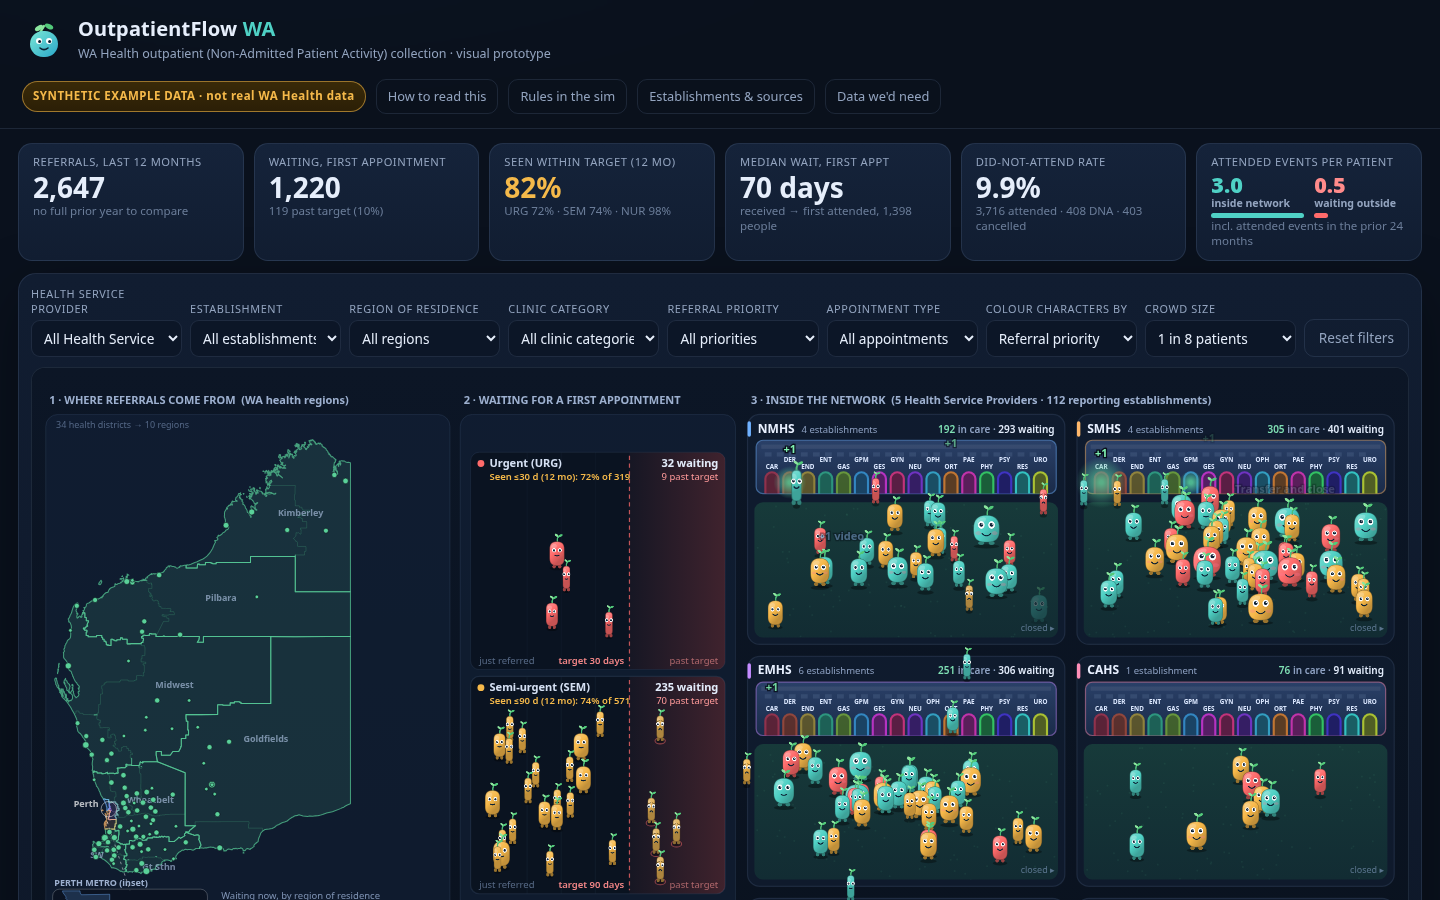
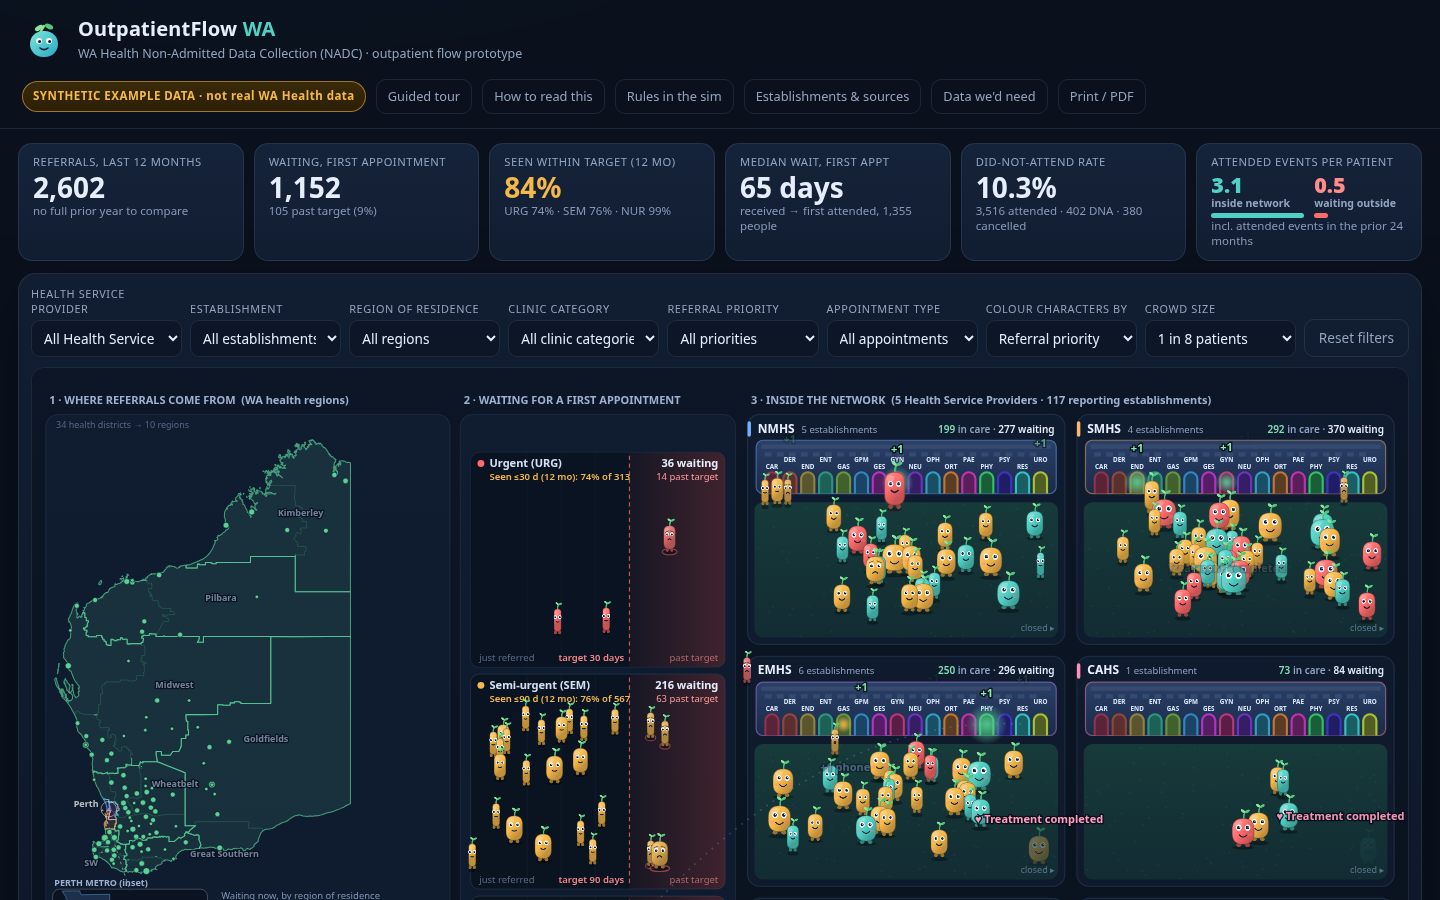
Lane caption fits narrow lanes; refresh README screenshots; research log

diff --git a/js/scene.js b/js/scene.js
@@ -446,7 +446,13 @@
         // rule-aware indicator: of first appointments in the last 12 months, share within target
         const sn = stats.seen12[ln.prio], wn = stats.within12[ln.prio];
         ctx.textAlign = 'left'; ctx.font = '600 ' + fz(9.5) + 'px ' + FONT; ctx.fillStyle = sn ? (wn / sn >= 0.9 ? '#7fe0b4' : wn / sn >= 0.7 ? '#f5b94a' : '#ff8b8b') : '#6f819e';
-        ctx.fillText(sn ? 'Seen ≤' + dm.priorities[ln.prio].targetDays + ' d (12 mo): ' + Math.round(wn / sn * 100) + '% of ' + fmtN(sn) : 'No first appts in last 12 mo', ln.x + 22, ln.y + 32);
+        const td = dm.priorities[ln.prio].targetDays, pc = sn ? Math.round(wn / sn * 100) : 0;
+        const rw = over ? (ctx.font = fz(9.5) + 'px ' + FONT, ctx.measureText(fmtN(over) + ' past target').width) : 0;
+        ctx.font = '600 ' + fz(9.5) + 'px ' + FONT;
+        const room = ln.w - 22 - 8 - rw - 8;
+        const opts = sn ? ['Seen ≤' + td + ' d (12 mo): ' + pc + '% of ' + fmtN(sn), 'Seen ≤' + td + ' d: ' + pc + '% of ' + fmtN(sn), '≤' + td + ' d: ' + pc + '%'] : ['No first appts in last 12 mo', 'No first appts (12 mo)', 'No first appts'];
+        let txt = opts.find((o) => ctx.measureText(o).width <= room) || opts[opts.length - 1];
+        ctx.fillText(txt, ln.x + 22, ln.y + 32);
       });
       L.cells.forEach((c) => {
         if (c.spot || !c.doors) return;

diff --git a/docs/RESEARCH-LOG.md b/docs/RESEARCH-LOG.md
@@ -66,6 +66,13 @@ Round of varied searches (Referral Priority code list; Business Rules section 9 
 * **Search-engine summaries (unverified paraphrase, not used as fact).** They said: the Referral Priority code set is AWT, NUR, SEM, URG, UNK (this matches the 2021 Specification we hold); attendance codes are ATT, DNA, DNW, NCE, NSP (matches the Dental Specification extract); "Did Not Attend" is an attendance status and not a valid appointment outcome (matches the Validation Manual extract we hold); Esperance 218, Geraldton 220, Derby 215, Fremantle 102, Kalgoorlie 226, Royal Perth 101 and Fiona Stanley 106 report to the NADC (the numbers equal our SLIP codes, but no official row was shown, so these sites stay "SLIP-flagged, not confirmed"); the Business Rules 2024 were superseded on 1 July 2025 and a Data Dictionary was superseded on 1 July 2026 (not confirmed anywhere; added to Open Question 1 as a reason to ask which edition is current).
 * Where a summary agrees with text we already hold verbatim, that adds nothing; where it does not, we did not use it.
 
+
+## 27 Oct 2026, about 22:35 AWST: second probe round and fixes
+
+* Searched again for Business Rules 2024 wording, Data Dictionary code lists, Information Compendium and Establishments rows beyond "C". The official health.wa.gov.au PDFs still return HTTP 500 to WebFetch (including the 2025-26 OBM KPI Data Definition Manual). Search summaries only repeated what is already logged: URG/SEM/NUR priority codes with AWT/UNK, attendance codes ATT/MCC/DNA/DNW/NCE/NSP/UNK (from the 2021 Business Rules mirror), and Peel Health Campus under SMHS from 13 Aug 2024. These are paraphrases (not verbatim) and change no counts, flags or rules.
+* Peel 145 vs 645, Hedland 131 vs 240 and Warmun 4243 stay open (OPEN-QUESTIONS 6c).
+* Simulation fixes in the same session: tour step 5 now reports the telehealth share across all appointments (17% in the default run) instead of the share among the filtered group (34%); the lane caption "Seen within target" shortens itself when the lane is narrow.
+
 ## Planned for the rest of the session
 
 * Rebuild the generator and data on the real establishments, the real code sets and the real column names.
